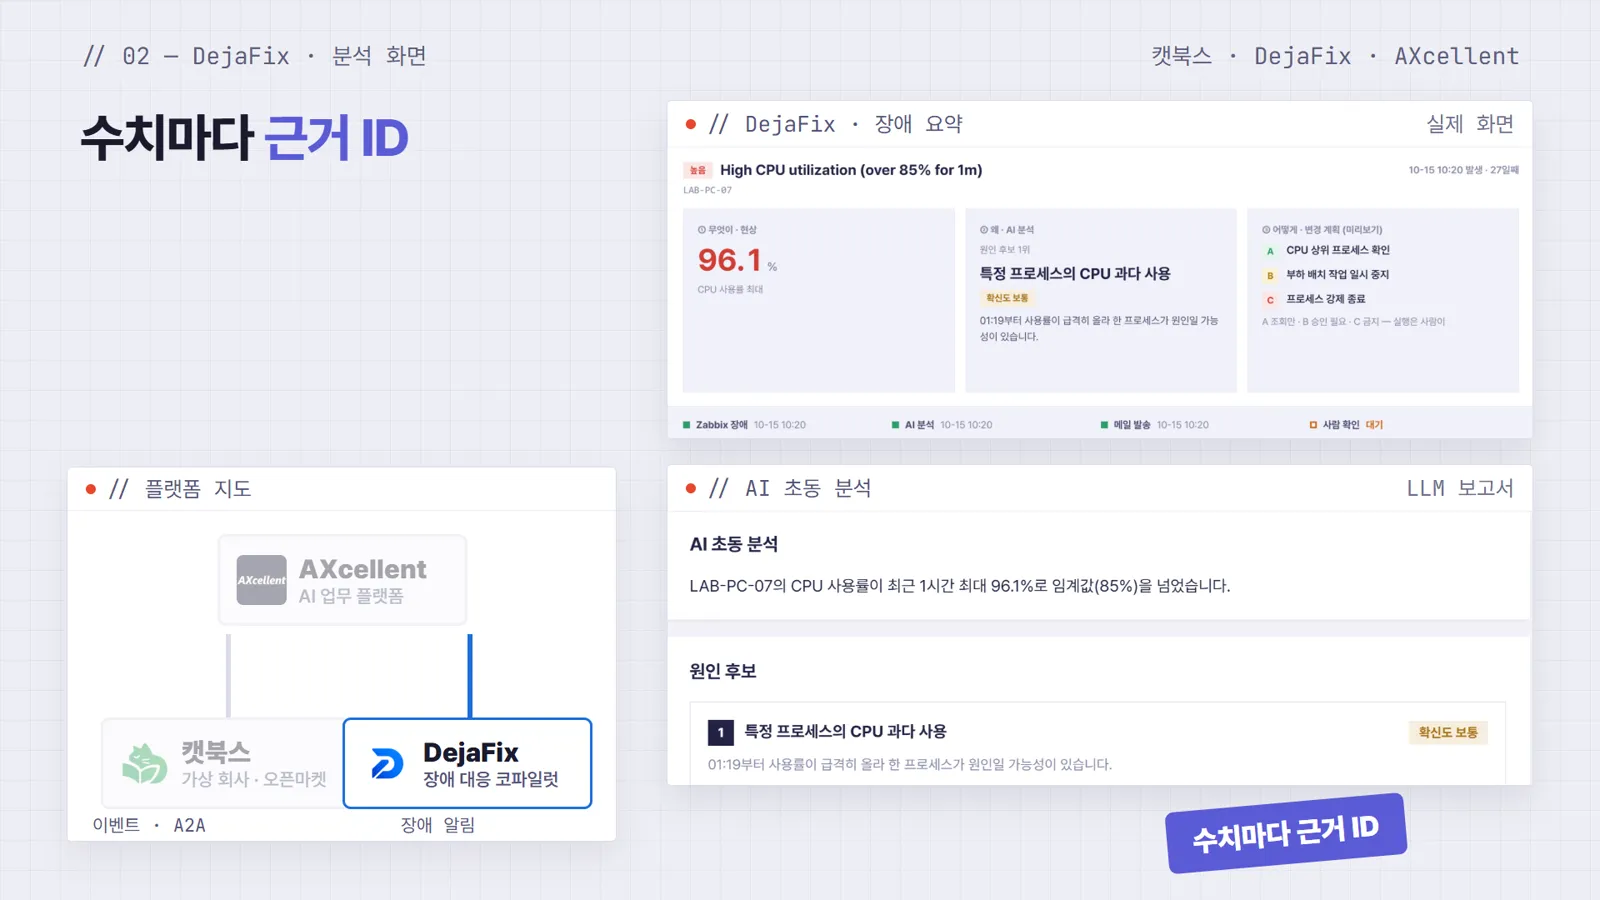
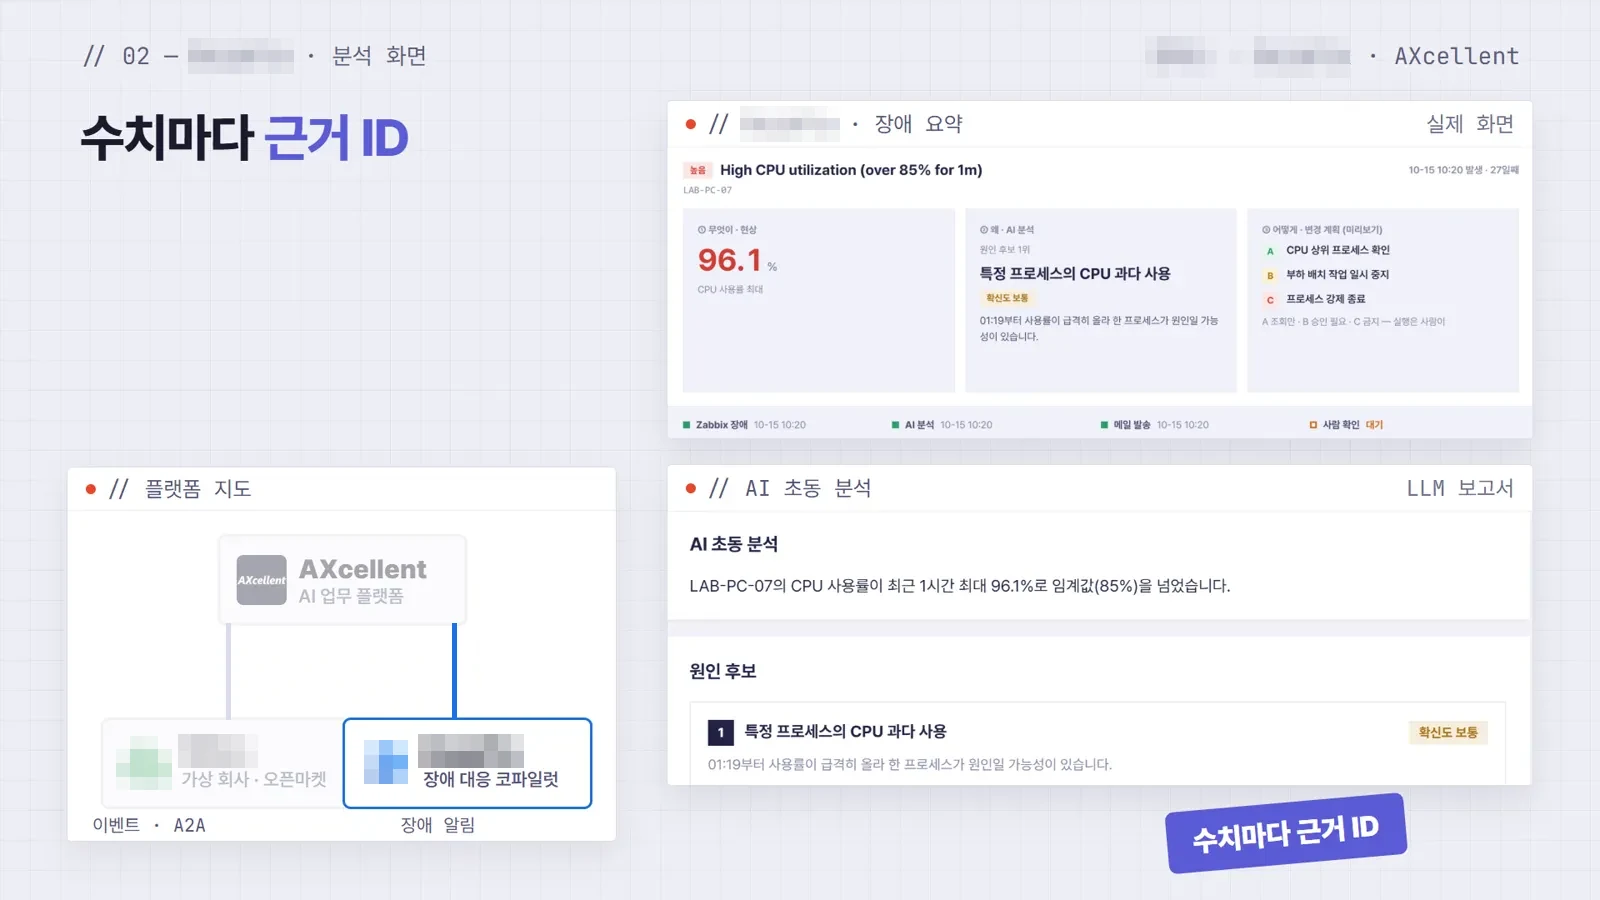
fix: blur shop and incident-system names in post 29 images 2-5
Same treatment as image 1: names and logos are pixelated in the header,
section labels and inset map, and the inset map lines now touch the top box.

Claude-Session: https://claude.ai/code/session_01LP9xbQXyFgUAXQVzaHFoDe

diff --git a/public/images/blog/ai/29/29.md b/public/images/blog/ai/29/29.md
@@ -1,12 +1,10 @@
-## 🦮 쇼핑몰 · 장애 대응 시스템 · AI 업무 플랫폼, 세 시스템이 함께 일하는 방법
-
-안녕하세요. 지난 글에서는 AI끼리 장애에 대응하는 AX 솔루션을 소개했습니다. 이번 글은 저희가 만든 **세 개의 플랫폼이 어떻게 맞물려 하나의 회사처럼 움직이는지** 정리한 영상을 글로 옮긴 것입니다.
+## 🦮 AI 업무 플랫폼과 장애 대응 시스템
 
 먼저 결론부터 말씀드리겠습니다.
 
-1. **가상 쇼핑몰**은 실제처럼 주문과 결제가 일어나는 가상의 회사입니다. AI가 일할 "현장"이 있어야 AX를 검증할 수 있기 때문입니다.
+1. **쇼핑몰**은 실제처럼 주문과 결제가 일어나는 가상의 회사입니다. AI가 일할 "현장"이 있어야 AX를 검증할 수 있기 때문입니다.
 
-2. **장애 대응 시스템**은 Zabbix 알람을 받아 원인을 정리하는 코파일럿입니다. 서버를 **조회만** 하고, 조치는 **미리보기**까지만 합니다.
+2. **장애 대응 시스템**은 모니터링(Zabbix) 알람을 받아 원인을 정리하는 코파일럿입니다. 서버를 **조회** 하고, 조치는 **미리보기**까지 합니다.
 
 3. **AI 업무 플랫폼**은 회사 서버에 설치해 쓰는 부서별 AI 에이전트 모음입니다. 총괄 AI 아래 8개 부서 AI가 **A2A**로 일을 주고받고, 위험한 일은 **규칙과 사람**이 막습니다.
 
